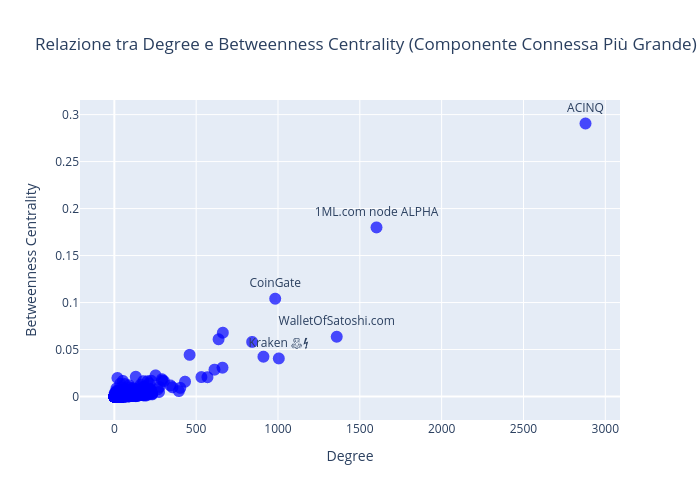
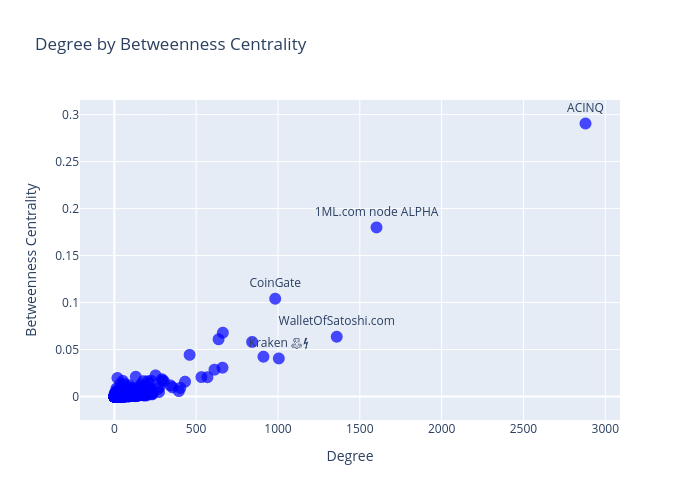
moved csv; update betweenness centrality script to save images with unique filenames and calculate correlation

Changed region(s): [[0.06, 0.06, 1.0, 0.12]]

diff --git a/bet_cent.py b/bet_cent.py
@@ -2,8 +2,11 @@ import networkx as nx
 import plotly.graph_objects as go
 import numpy as np
 
+from cytoscape.utils import get_unique_filename
+
 # Carica il grafo del 2025
-G = nx.read_graphml(f"graphml_weighted/2025/snapshot_2025.graphml.graphml")
+# G = nx.read_graphml(f"graphml_weighted/2025/snapshot_2025.graphml.graphml")
+G = nx.read_graphml(f"graphml_weighted/2025/Subnetwork_Degree_Between_2_and_100000_snapshot_2025.graphml.graphml")
 
 # Converte il grafo diretto in un grafo non diretto
 G_undirected = G.to_undirected()
@@ -27,6 +30,9 @@ node_aliases = [data.get('alias', 'No Alias') for _, data in G_largest.nodes(dat
 # Crea una lista di etichette che mostreranno sempre per i nodi con degree > 500
 always_labels = ['' if degree <= 950 else alias for degree, alias in zip(degree_values, node_aliases)]
 
+# Calcola la correlazione tra Degree e Betweenness Centrality
+correlation = np.corrcoef(degree_values, betweenness_values)[0, 1]
+
 # Crea il grafico con Plotly
 fig = go.Figure()
 
@@ -42,13 +48,15 @@ fig.add_trace(go.Scatter(
 
 # Aggiungi titolo e etichette agli assi
 fig.update_layout(
-    title='Relazione tra Degree e Betweenness Centrality (Componente Connessa Più Grande)',
+    title=f'Degree by Betweenness Centrality',
     xaxis_title='Degree',
     yaxis_title='Betweenness Centrality',
     showlegend=False  # Disabilita la legenda
 )
 
-# Esporta il grafico come PNG
-fig.write_image("graph_output.png")
+# Salva il grafico come immagine
+filename = get_unique_filename("graph_output",".png")
+fig.write_image(filename)
 
-print("Il grafico è stato salvato come 'graph_output.png'.")
+print(f"Correlazione tra Degree e Betweenness Centrality: {correlation}")
+print("Il grafico è stato salvato come immagine:", filename)
